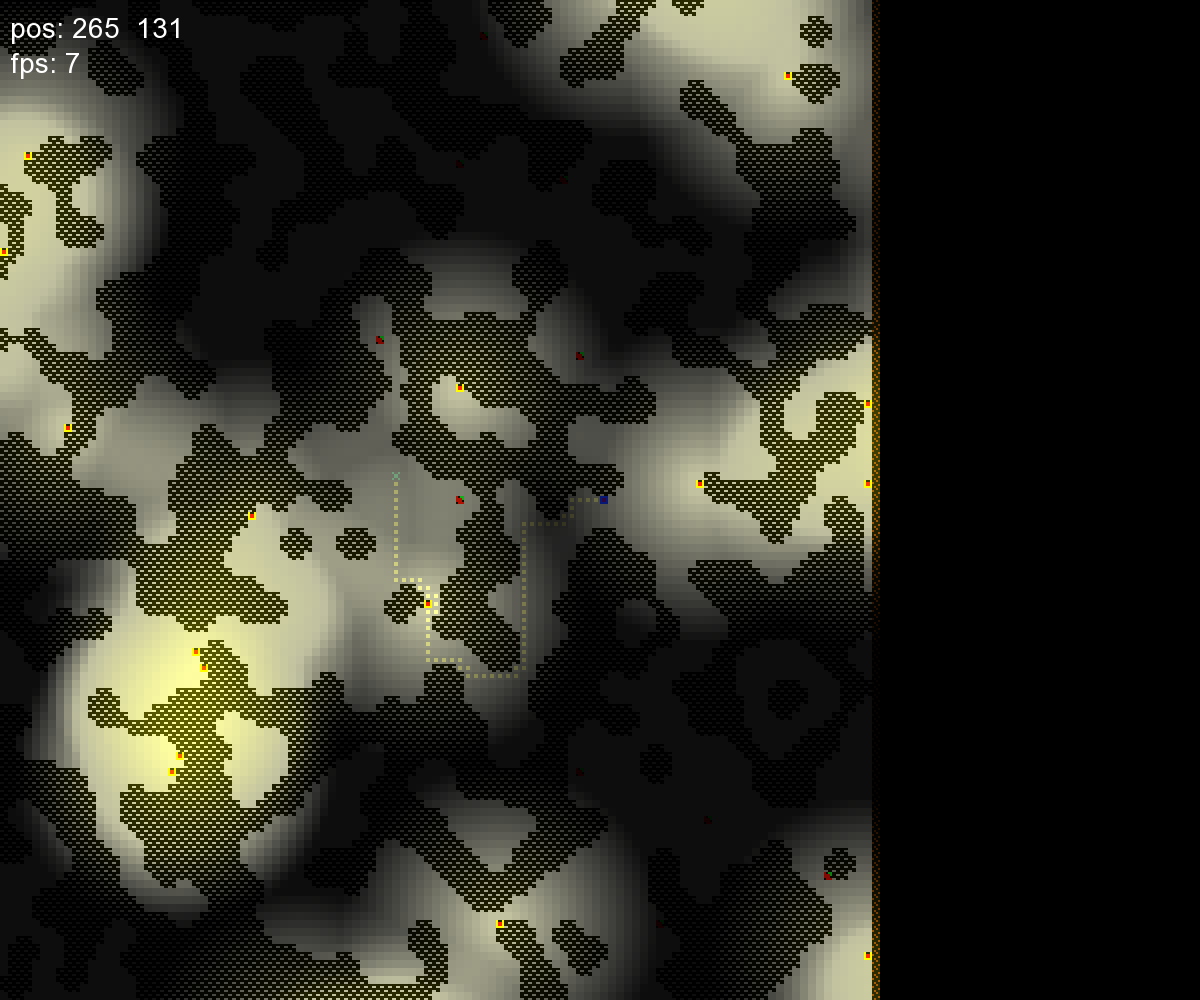
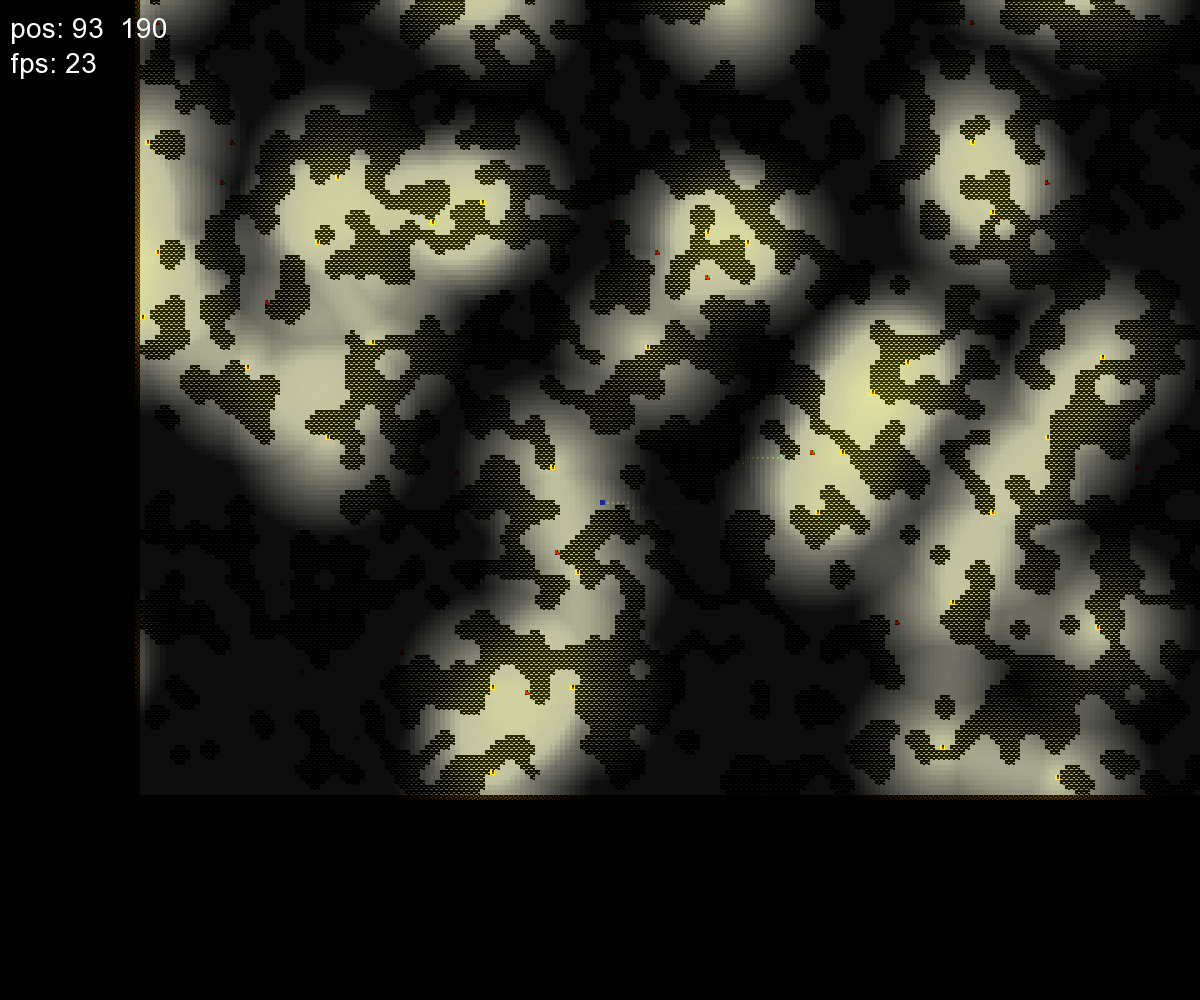
fix render_lab buffer overflow & fix p_target = 0

diff --git a/src/Output.cpp b/src/Output.cpp
@@ -6,14 +6,19 @@
 #include "Life.h"
 #include "ProcessCmd.h"
 
-static void paint_path(sf::Uint8* pixels, Map_t* map, int ix, int iy,
-                       int iN, int iM, int step_x, int step_y, unsigned char* color);
-
 static void paint_object(bool outside, sf::Uint8* pixels, Map_t* map, int ix, int iy,
-                         int iN, int iM, int step_x, int step_y, unsigned char* color);
+                         int iN, int iM,int step_x, int step_y, int chunk_x, int chunk_y);
+
+static void paint_path(sf::Uint8* pixels, Map_t* map, int ix, int iy,
+                       int step_x, int step_y, int chunk_x, int chunk_y);
 
 static void paint_path_target(int is_exist, sf::Uint8* pixels, Map_t* map, int ix, int iy,
-                              int iN, int iM, int step_x, int step_y, unsigned char* color);
+                              int step_x, int step_y, int chunk_x, int chunk_y);
+
+static void paint_obj_chunk(sf::Uint8* pixels, int ix, int iy, int step_x, int step_y,
+                            int chunk_x, int chunk_y, int obj_ind, int (*skip)(unsigned char*));
+
+static int  obj_skip_white(unsigned char* color);
 
 void print_help()
 {
@@ -38,7 +43,6 @@ void set_text(sf::Font* font, sf::Text* text, float x, float y)
 
 void render_lab(sf::Uint8* pixels, Map_t* map, PlayerSet_t* PlayerSet)
 {
-    unsigned char* color = (unsigned char*) calloc(3, sizeof(unsigned char));
     int cx = PlayerSet->px;
     int cy = PlayerSet->py;
     int step_x = (int) (PlayerSet->scale * wscale_render * wbyte2pix);
@@ -46,13 +50,22 @@ void render_lab(sf::Uint8* pixels, Map_t* map, PlayerSet_t* PlayerSet)
     int dy0 = PIX_HEIGHT / 2 - (PIX_HEIGHT / 2 / step_y) * step_y;
     int dx0 = PIX_WIDTH  / 2 - (PIX_WIDTH  / 2 / step_x) * step_x;
 
+    int chunk_y = step_y;
     for (int iy = 0; iy < PIX_HEIGHT; iy += step_y) {
+        if (iy + step_y >= PIX_HEIGHT) 
+            chunk_y = PIX_HEIGHT - iy;
+        
         bool outside_y = false;
         int dy = (dy0 + iy - PIX_HEIGHT / 2) / step_y;
         int iN = cy + dy;
         if (iN != MIN(BYTE_HEIGHT - 1, MAX(0, iN)))
             outside_y = true;
+
+        int chunk_x = step_x;
         for (int ix = 0; ix < PIX_WIDTH; ix += step_x) {
+            if (ix + step_x >= PIX_WIDTH) 
+                chunk_x = PIX_WIDTH - ix;
+
             bool outside_x = false;
             int dx = (dx0 + ix - PIX_WIDTH / 2) / step_x;
             int iM = cx + dx;
@@ -60,34 +73,36 @@ void render_lab(sf::Uint8* pixels, Map_t* map, PlayerSet_t* PlayerSet)
                 outside_x = true;
 
             bool outside = outside_x || outside_y;
-            paint_object(outside, pixels, map, ix, iy, iN, iM, step_x, step_y, color);
+            paint_object(outside, pixels, map, ix, iy, iN, iM, step_x, step_y, chunk_x, chunk_y);
             if (!outside &&
                 map->path.path[iN * BYTE_WIDTH + iM] > 0 &&
                 map->path.path_target != iN * BYTE_WIDTH + iM &&
                 map->path.passed < map->path.path[iN * BYTE_WIDTH + iM]) {
 
-                paint_path(pixels, map, ix, iy, iN, iM, step_x, step_y, color);
+                paint_path(pixels, map, ix, iy, step_x, step_y, chunk_x, chunk_y);
             }
             if (!outside &&
                 map->path.path_target == iN * BYTE_WIDTH + iM &&
-                ((map->path.passed < map->path.count && map->path.path_exist) || !map->path.path_exist))
+                ((map->path.passed < map->path.count && map->path.path_exist) || !map->path.path_exist)) {
 
-                paint_path_target(map->path.path_exist, pixels, map, ix, iy, iN, iM,
-                                  step_x, step_y, color);
+                paint_path_target(map->path.path_exist, pixels, map, ix, iy, step_x, step_y, chunk_x, chunk_y);
+            }
         }
     }
 }
 
 static void paint_object(bool outside, sf::Uint8* pixels, Map_t* map, int ix, int iy,
-                         int iN, int iM, int step_x, int step_y, unsigned char* color)
+                         int iN, int iM, int step_x, int step_y, int chunk_x, int chunk_y)
 {
+    unsigned char color[3] = {};
     bool is_obj = false;
     for (int i = 0; i < COUNT_OBJECTS; i++) {
         if (map->map[iN * BYTE_WIDTH + iM] == OBJECTS[i].symbol) {
-            for (int y = 0; y < step_y; y++) {
-                for (int x = 0; x < step_x; x++) {
+            for (int y = 0; y < chunk_y; y++) {
+                for (int x = 0; x < chunk_x; x++) {
                     int y_col = y * hbyte2pix / step_y;
                     int x_col = x * wbyte2pix / step_x;
+
                     sf::Uint8* pixel = &pixels[pos_in_pix_window(ix + x, iy + y)];
                     if (outside) {
                         memset(pixel, 0, 4 * sizeof(unsigned char));
@@ -98,7 +113,7 @@ static void paint_object(bool outside, sf::Uint8* pixels, Map_t* map, int ix, in
                         color[1] = MAX(0, MIN(255, color[1] + map->col[(iN * BYTE_WIDTH + iM) * 3 + 1]));
                         color[2] = MAX(0, MIN(255, color[2] + map->col[(iN * BYTE_WIDTH + iM) * 3 + 2]));
 
-                        memcpy(pixel, color, 3 * sizeof(unsigned char));
+                        memcpy(pixel, color, 3 * sizeof(sf::Uint8));
                         pixel[3] = map->light[iN * BYTE_WIDTH + iM];
                     }
                 }
@@ -110,41 +125,24 @@ static void paint_object(bool outside, sf::Uint8* pixels, Map_t* map, int ix, in
     if (!is_obj) {
         for (int y = 0; y < step_y; y++) {
             sf::Uint8* pixel = &pixels[pos_in_pix_window(ix, iy + y)];
-            memset(pixel, 0, 4 * sizeof(unsigned char) * step_x);
+            memset(pixel, 0, 4 * sizeof(sf::Uint8) * step_x);
         }
     }
 }
 
 static void paint_path(sf::Uint8* pixels, Map_t* map, int ix, int iy,
-                       int iN, int iM, int step_x, int step_y, unsigned char* color)
+                       int step_x, int step_y, int chunk_x, int chunk_y)
 {
     int ind_obj_path = -1;
     for (int i = 0; i < COUNT_OBJECTS; i++)
         if (OBJECTS[i].symbol == SYM_OBJ_PATH)
             ind_obj_path = i;
 
-    for (int y = 0; y < step_y; y++) {
-        for (int x = 0; x < step_x; x++) {
-            int y_col = y * hbyte2pix / step_y;
-            int x_col = x * wbyte2pix / step_x;
-            sf::Uint8* pixel = &pixels[pos_in_pix_window(ix + x, iy + y)];
-
-            memcpy(color, &OBJECTS[ind_obj_path].bytes_color[(y_col * wbyte2pix + x_col) * 4], 3 * sizeof(unsigned char));
-
-            if (color[0] == 255 && color[1] == 255 && color[2] == 255)
-                continue;
-    
-            color[0] = MAX(0, MIN(255, color[0] + pixel[0]));
-            color[1] = MAX(0, MIN(255, color[1] + pixel[1]));
-            color[2] = MAX(0, MIN(255, color[2] + pixel[2]));
-
-            memcpy(pixel, color, 3 * sizeof(unsigned char));
-        }
-    }
+    paint_obj_chunk(pixels, ix, iy, step_x, step_y, chunk_x, chunk_y, ind_obj_path, obj_skip_white);
 }
 
 static void paint_path_target(int is_exist, sf::Uint8* pixels, Map_t* map, int ix, int iy,
-                              int iN, int iM, int step_x, int step_y, unsigned char* color)
+                              int step_x, int step_y, int chunk_x, int chunk_y)
 {
     int ind_obj_path_target = -1;
     for (int i = 0; i < COUNT_OBJECTS; i++)
@@ -152,24 +150,36 @@ static void paint_path_target(int is_exist, sf::Uint8* pixels, Map_t* map, int i
             (!is_exist && OBJECTS[i].symbol == SYM_OBJ_IMDEST))
             ind_obj_path_target = i;
 
-    for (int y = 0; y < step_y; y++) {
-        for (int x = 0; x < step_x; x++) {
+    paint_obj_chunk(pixels, ix, iy, step_x, step_y, chunk_x, chunk_y, ind_obj_path_target, obj_skip_white);
+}
+
+static void paint_obj_chunk(sf::Uint8* pixels, int ix, int iy, int step_x, int step_y,
+                            int chunk_x, int chunk_y, int obj_ind, int (*skip)(unsigned char*))
+{
+    unsigned char color[3] = {};
+    for (int y = 0; y < chunk_y; y++) {
+        for (int x = 0; x < chunk_x; x++) {
             int y_col = y * hbyte2pix / step_y;
             int x_col = x * wbyte2pix / step_x;
             sf::Uint8* pixel = &pixels[pos_in_pix_window(ix + x, iy + y)];
 
-            memcpy(color, &OBJECTS[ind_obj_path_target].bytes_color[(y_col * wbyte2pix + x_col) * 4], 3 * sizeof(unsigned char));
+            memcpy(color, &OBJECTS[obj_ind].bytes_color[(y_col * wbyte2pix + x_col) * 4], 3 * sizeof(unsigned char));
 
-            if (color[0] == 255 && color[1] == 255 && color[2] == 255)
+            if (skip(color))
                 continue;
     
             color[0] = MAX(0, MIN(255, color[0] + pixel[0]));
             color[1] = MAX(0, MIN(255, color[1] + pixel[1]));
             color[2] = MAX(0, MIN(255, color[2] + pixel[2]));
 
-            memcpy(pixel, color, 3 * sizeof(unsigned char));
+            memcpy(pixel, color, 3 * sizeof(sf::Uint8));
         }
     }
+}
+
+static int obj_skip_white(unsigned char* color)
+{
+    return (color[0] == 255 && color[1] == 255 && color[2] == 255);
 }
 
 void make_screenshot(sf::RenderWindow* window, const char* output_file)

diff --git a/src/Main.cpp b/src/Main.cpp
@@ -24,8 +24,8 @@ int main(int argc, const char *argv[])
     sf::Font font;
     sf::Text POS_Text, FPS_Text;
 
-    Map_t map = {};
-    PlayerSet_t PlayerSet = {.is_info = 1, .dx = 1, .dy = 1, .scale = 1.f, .Kscale = 2.f};
+    Map_t map = {.path = {.path_target = -1}};
+    PlayerSet_t PlayerSet = {.is_info = 1, .dx = 1, .dy = 1, .scale = 1.f, .Kscale = 1.3f};
 
     error = input_cmd(argc, argv, &cmd_data);
     if (error) return error;
